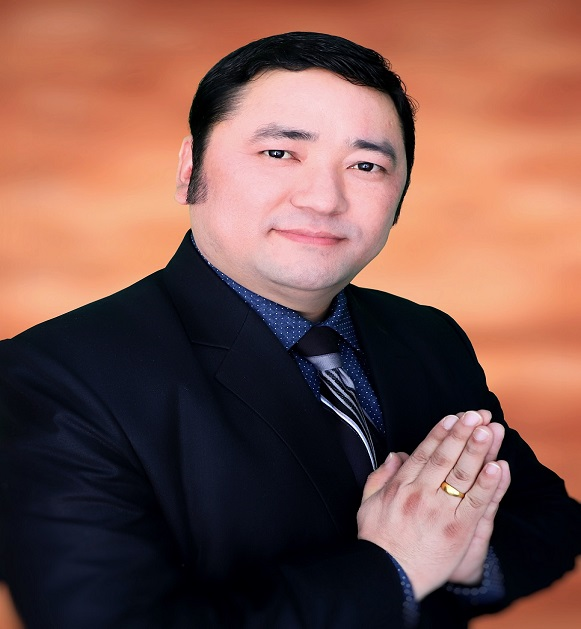
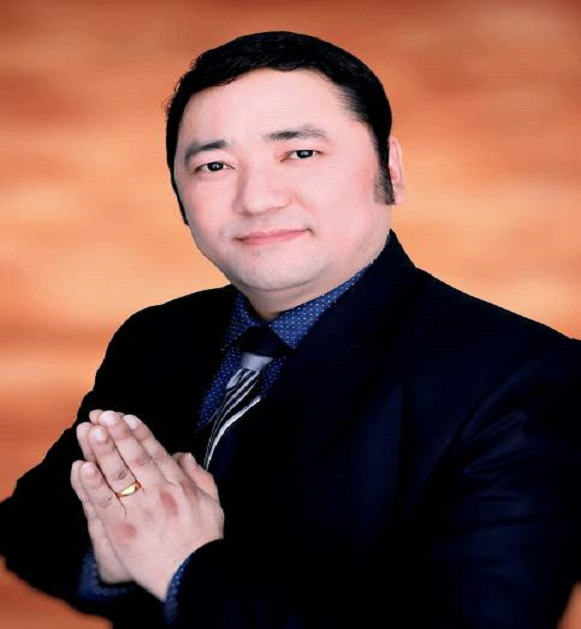
leader page updated

diff --git a/src/app/leadership/leadership.component.html b/src/app/leadership/leadership.component.html
@@ -2,11 +2,10 @@
 
   <div class="row" style="margin-left: 0;margin-right: 0;">
     <div class="col-xl-3 col-lg-4 col-md-6" data-aos="fade-up" style="padding: 0;">
-      <div class="member-new" style="max-height: 60%;">
-        <div class="pic" ><img src="assets/images/team/kumar_gurung.jpg" class="img-fluid" alt="" ></div>
+      <div class="member-new">
+        <div class="pic"><img src="assets/images/team/trulku_ngawang.jpg" class="img-fluid" alt=""></div>
         <div class="member-info">
-          <span>Kumar Gurung</span><br>
-          <span>Chairman & CEO</span>
+          <span>His Holiness Trulku Ngawang S ZangpoRinpoche</span>
         </div>
       </div>
     </div>
@@ -28,13 +27,15 @@
       </div>
     </div>
     <div class="col-xl-3 col-lg-4 col-md-6" data-aos="fade-up" style="padding: 0;">
-      <div class="member-new">
-        <div class="pic"><img src="assets/images/team/trulku_ngawang.jpg" class="img-fluid" alt=""></div>
+      <div class="member-new" style="max-height: 60%;">
+        <div class="pic" ><a href="https://www.facebook.com/profile.php?id=100004020120835" target="_blank"><img src="assets/images/team/kumar_gurung.jpg" class="img-fluid" alt="" ></a></div>
         <div class="member-info">
-          <span>His Holiness Trulku Ngawang S ZangpoRinpoche</span>
+          <span>Kumar Gurung</span><br>
+          <span>Chairman & CEO</span>
         </div>
       </div>
     </div>
+   
   </div>
   <div class="container paddingtop-50 margin-top-50">
     <div class="row">
@@ -44,12 +45,12 @@
           <div class="member-info">
             <h4>Yogi Gomchen Rinpoche</h4>
             <span>Spiritual Master</span>
-            <div class="social">
+            <!-- <div class="social">
               <a href="javascript:void(0)"><i class="fa fa-twitter"></i></a>
               <a href="javascript:void(0)"><i class="fa fa-facebook"></i></a>
               <a href="javascript:void(0)"><i class="fa fa-instagram"></i></a>
               <a href="javascript:void(0)"><i class="fa fa-linkedin"></i></a>
-            </div>
+            </div> -->
           </div>
         </div>
       </div>
@@ -60,12 +61,28 @@
           <div class="member-info">
             <h4>Durga R. Gurung</h4>
             <span>Board Member</span>
-            <div class="social">
+            <!-- <div class="social">
               <a href="javascript:void(0)"><i class="fa fa-twitter"></i></a>
               <a href="javascript:void(0)"><i class="fa fa-facebook"></i></a>
               <a href="javascript:void(0)"><i class="fa fa-instagram"></i></a>
               <a href="javascript:void(0)"><i class="fa fa-linkedin"></i></a>
-            </div>
+            </div> -->
+          </div>
+        </div>
+      </div>
+
+      <div class="col-xl-3 col-lg-4 col-md-6" data-aos="fade-up" data-aos-delay="300">
+        <div class="member">
+          <div class="pic"><img src="assets/images/team/umesh_rout.jpg" class="img-fluid" alt=""></div>
+          <div class="member-info">
+            <h4>Umesh Raut</h4>
+            <span>Board Member</span>
+            <!-- <div class="social">
+              <a href="javascript:void(0)"><i class="fa fa-twitter"></i></a>
+              <a href="javascript:void(0)"><i class="fa fa-facebook"></i></a>
+              <a href="javascript:void(0)"><i class="fa fa-instagram"></i></a>
+              <a href="javascript:void(0)"><i class="fa fa-linkedin"></i></a>
+            </div> -->
           </div>
         </div>
       </div>
@@ -76,12 +93,12 @@
           <div class="member-info">
             <h4>Rahul Biswa</h4>
             <span>Board Member</span>
-            <div class="social">
+            <!-- <div class="social">
               <a href="javascript:void(0)"><i class="fa fa-twitter"></i></a>
               <a href="javascript:void(0)"><i class="fa fa-facebook"></i></a>
               <a href="javascript:void(0)"><i class="fa fa-instagram"></i></a>
               <a href="javascript:void(0)"><i class="fa fa-linkedin"></i></a>
-            </div>
+            </div> -->
           </div>
         </div>
       </div>
@@ -92,12 +109,12 @@
           <div class="member-info">
             <h4>Mary Lyn Cabral</h4>
             <span>Board Member</span>
-            <div class="social">
+            <!-- <div class="social">
               <a href="javascript:void(0)"><i class="fa fa-twitter"></i></a>
               <a href="javascript:void(0)"><i class="fa fa-facebook"></i></a>
               <a href="javascript:void(0)"><i class="fa fa-instagram"></i></a>
               <a href="javascript:void(0)"><i class="fa fa-linkedin"></i></a>
-            </div>
+            </div> -->
           </div>
         </div>
       </div>
@@ -108,12 +125,12 @@
           <div class="member-info">
             <h4>Amber Chhetri</h4>
             <span>Board Member</span>
-            <div class="social">
+            <!-- <div class="social">
               <a href="javascript:void(0)"><i class="fa fa-twitter"></i></a>
               <a href="javascript:void(0)"><i class="fa fa-facebook"></i></a>
               <a href="javascript:void(0)"><i class="fa fa-instagram"></i></a>
               <a href="javascript:void(0)"><i class="fa fa-linkedin"></i></a>
-            </div>
+            </div> -->
           </div>
         </div>
       </div>
@@ -124,12 +141,12 @@
           <div class="member-info">
             <h4>Sandy Aquila</h4>
             <span>Board Member</span>
-            <div class="social">
+            <!-- <div class="social">
               <a href="javascript:void(0)"><i class="fa fa-twitter"></i></a>
               <a href="javascript:void(0)"><i class="fa fa-facebook"></i></a>
               <a href="javascript:void(0)"><i class="fa fa-instagram"></i></a>
               <a href="javascript:void(0)"><i class="fa fa-linkedin"></i></a>
-            </div>
+            </div> -->
           </div>
         </div>
       </div>
@@ -140,12 +157,12 @@
           <div class="member-info">
             <h4>Khenpo Karma Wangyal</h4>
             <span>President Nepal</span>
-            <div class="social">
+            <!-- <div class="social">
               <a href="javascript:void(0)"><i class="fa fa-twitter"></i></a>
               <a href="javascript:void(0)"><i class="fa fa-facebook"></i></a>
               <a href="javascript:void(0)"><i class="fa fa-instagram"></i></a>
               <a href="javascript:void(0)"><i class="fa fa-linkedin"></i></a>
-            </div>
+            </div> -->
           </div>
         </div>
       </div>
@@ -156,12 +173,12 @@
           <div class="member-info">
             <h4>Tshampo Tshewang Gurung</h4>
             <span>President India</span>
-            <div class="social">
+            <!-- <div class="social">
               <a href="javascript:void(0)"><i class="fa fa-twitter"></i></a>
               <a href="javascript:void(0)"><i class="fa fa-facebook"></i></a>
               <a href="javascript:void(0)"><i class="fa fa-instagram"></i></a>
               <a href="javascript:void(0)"><i class="fa fa-linkedin"></i></a>
-            </div>
+            </div> -->
           </div>
         </div>
       </div>
@@ -171,12 +188,12 @@
           <div class="member-info">
             <h4>M Sree Indrobongsha Bhikkhu</h4>
             <span>President, Bangladesh</span>
-            <div class="social">
+            <!-- <div class="social">
               <a href="javascript:void(0)"><i class="fa fa-twitter"></i></a>
               <a href="javascript:void(0)"><i class="fa fa-facebook"></i></a>
               <a href="javascript:void(0)"><i class="fa fa-instagram"></i></a>
               <a href="javascript:void(0)"><i class="fa fa-linkedin"></i></a>
-            </div>
+            </div> -->
           </div>
         </div>
       </div>
@@ -187,12 +204,12 @@
           <div class="member-info">
             <h4>Bal Gopal Gautam</h4>
             <span>President (Public), Nepal</span>
-            <div class="social">
+            <!-- <div class="social">
               <a href="javascript:void(0)"><i class="fa fa-twitter"></i></a>
               <a href="javascript:void(0)"><i class="fa fa-facebook"></i></a>
               <a href="javascript:void(0)"><i class="fa fa-instagram"></i></a>
               <a href="javascript:void(0)"><i class="fa fa-linkedin"></i></a>
-            </div>
+            </div> -->
           </div>
         </div>
       </div>
@@ -203,12 +220,12 @@
           <div class="member-info">
             <h4>Jerome Okolo</h4>
             <span>Legal Advisor</span>
-            <div class="social">
+            <!-- <div class="social">
               <a href="javascript:void(0)"><i class="fa fa-twitter"></i></a>
               <a href="javascript:void(0)"><i class="fa fa-facebook"></i></a>
               <a href="javascript:void(0)"><i class="fa fa-instagram"></i></a>
               <a href="javascript:void(0)"><i class="fa fa-linkedin"></i></a>
-            </div>
+            </div> -->
           </div>
         </div>
       </div>
@@ -219,12 +236,12 @@
           <div class="member-info">
             <h4>Bishnu Khadka</h4>
             <span>Director, Documentary Film & Video Editing</span>
-            <div class="social">
+            <!-- <div class="social">
               <a href="javascript:void(0)"><i class="fa fa-twitter"></i></a>
               <a href="javascript:void(0)"><i class="fa fa-facebook"></i></a>
               <a href="javascript:void(0)"><i class="fa fa-instagram"></i></a>
               <a href="javascript:void(0)"><i class="fa fa-linkedin"></i></a>
-            </div>
+            </div> -->
           </div>
         </div>
       </div>
@@ -235,12 +252,12 @@
           <div class="member-info">
             <h4>James G. Jandrain</h4>
             <span>Tax & Accounting Advisor</span>
-            <div class="social">
+            <!-- <div class="social">
               <a href="javascript:void(0)"><i class="fa fa-twitter"></i></a>
               <a href="javascript:void(0)"><i class="fa fa-facebook"></i></a>
               <a href="javascript:void(0)"><i class="fa fa-instagram"></i></a>
               <a href="javascript:void(0)"><i class="fa fa-linkedin"></i></a>
-            </div>
+            </div> -->
           </div>
         </div>
       </div>
@@ -251,12 +268,12 @@
           <div class="member-info">
             <h4>Vishal Chhetri</h4>
             <span>IT Advisor</span>
-            <div class="social">
+            <!-- <div class="social">
               <a href="javascript:void(0)"><i class="fa fa-twitter"></i></a>
               <a href="javascript:void(0)"><i class="fa fa-facebook"></i></a>
               <a href="javascript:void(0)"><i class="fa fa-instagram"></i></a>
               <a href="javascript:void(0)"><i class="fa fa-linkedin"></i></a>
-            </div>
+            </div> -->
           </div>
         </div>
       </div>

diff --git a/src/app/contactus/contactus.component.html b/src/app/contactus/contactus.component.html
@@ -67,11 +67,11 @@
 
   </div>
 </section>
-<div class=""
+<!-- <div class=""
   style="-webkit-box-shadow: 0px 0px 8px 0px rgba(0, 0, 0, 0.21);
     -moz-box-shadow: 0px 0px 8px 0px rgba(0, 0, 0, 0.21);box-shadow: 0px 0px 8px 0px rgba(0, 0, 0, 0.21);">
   <div id="controls" class="mapControl"></div>
   <div class="popin">
     <div id="gmap" style="height: 395px;"></div>
   </div>
-</div>
+</div> -->

diff --git a/src/app/edit-profile/components/edit-news/edit-news.component.ts b/src/app/edit-profile/components/edit-news/edit-news.component.ts
@@ -47,7 +47,9 @@ export class EditNewsComponent implements OnInit {
     this.editNewsService
       .getNews(this.page, this.pageSize)
       .subscribe((result) => {
-        this.allNews = result.response;
+        if(result.response!==null){
+          this.allNews = result.response;
+        }
       }, error => {
         this.toastr.error(error, '', {
           closeButton: true,
